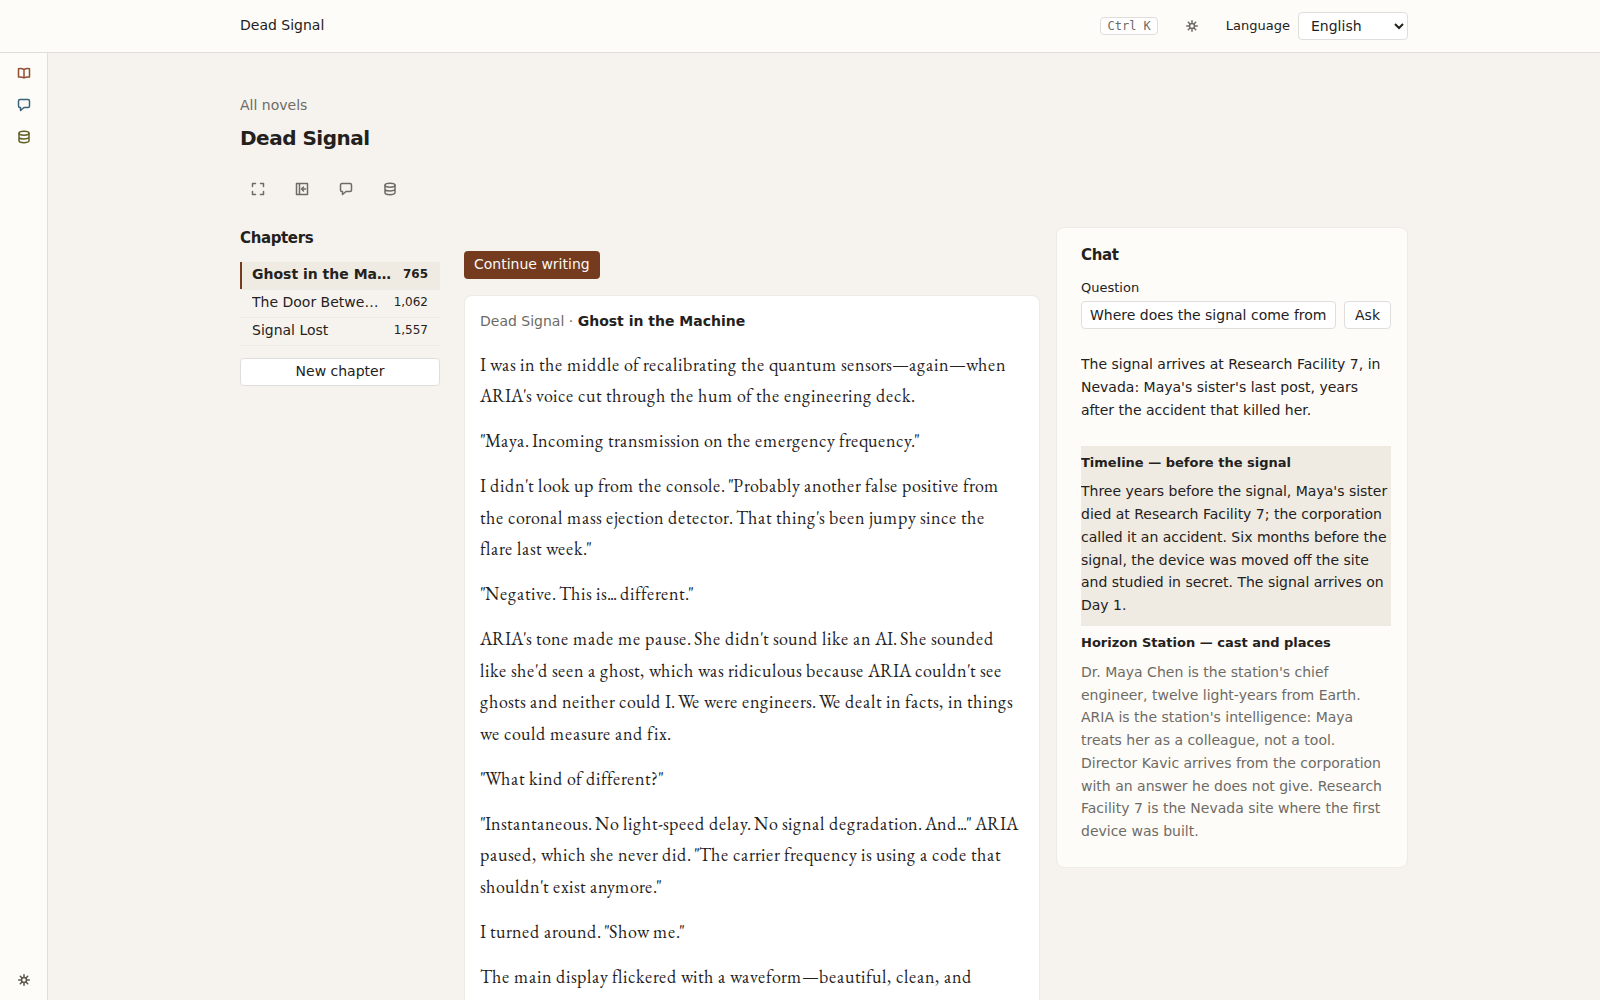
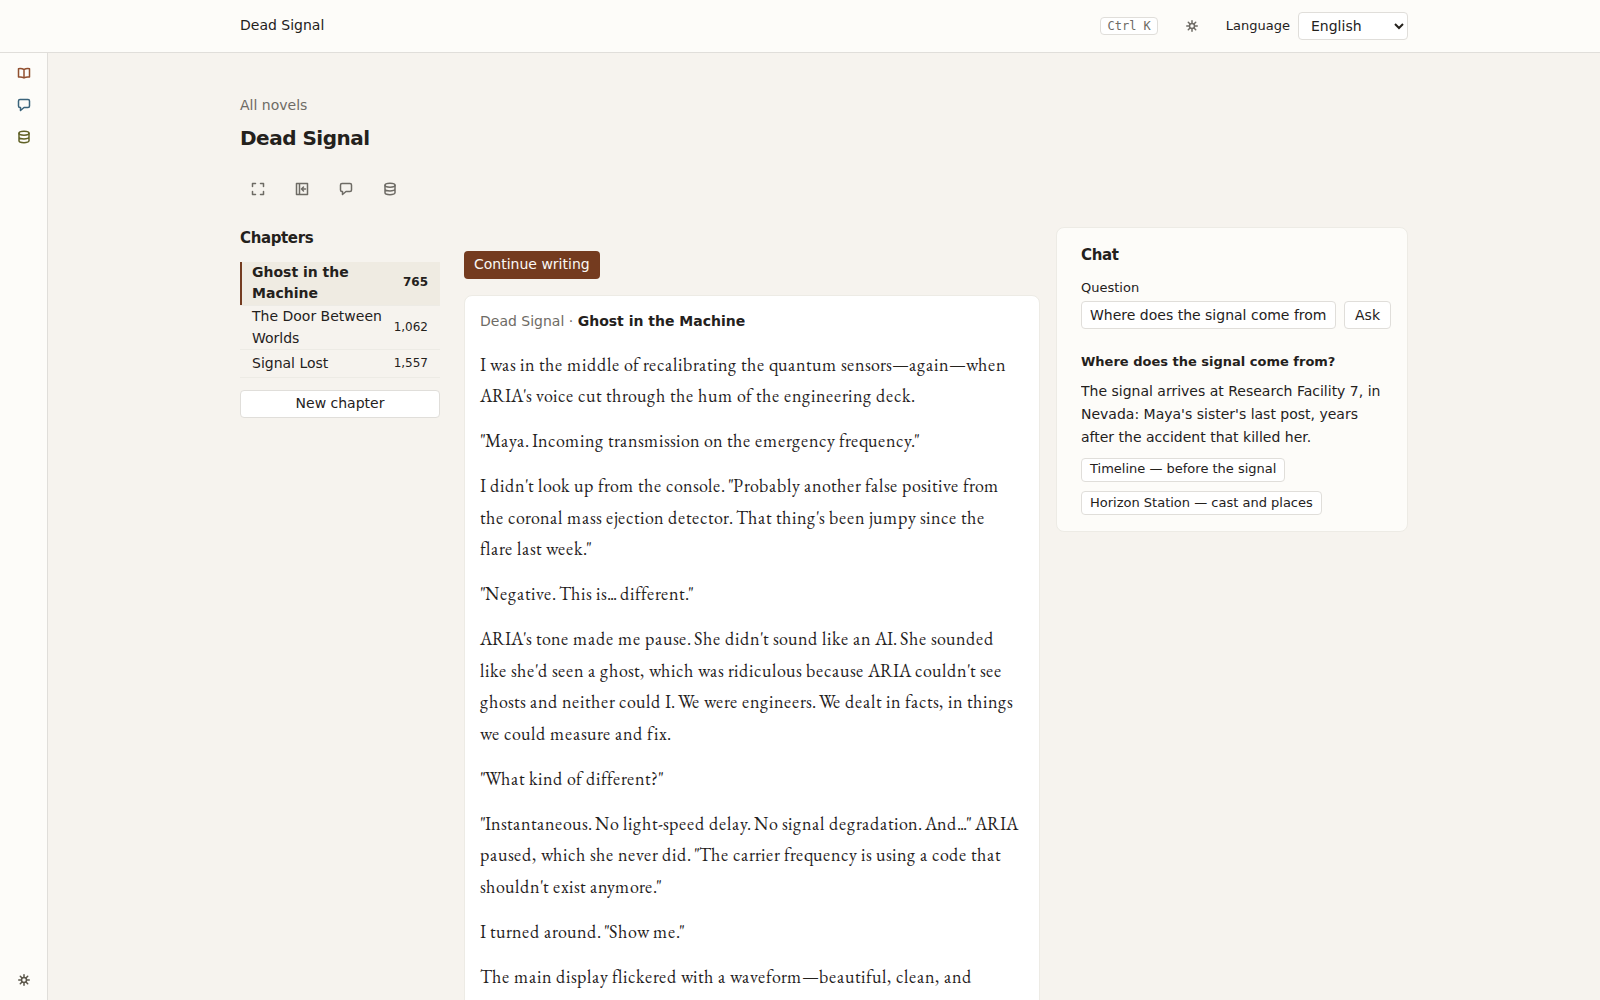
docs(screenshots): the gallery pins the dock and palette states
User-visible: the /design gallery now pins the landed dock and palette states as specimens — a conversation turn with its chips, the consistency card, the wrapped entity row and the palette dialog's button row — in light and dark.
Assisted-by: OpenCode (muse-spark-1.3-contributor)

Changed region(s): [[0.6562, 0.341, 0.875, 0.589], [0.6562, 0.62, 0.875, 0.837], [0.1562, 0.248, 0.2812, 0.403]]

diff --git a/app/capabilities/settings/web/DesignGallery.tsx b/app/capabilities/settings/web/DesignGallery.tsx
@@ -2,6 +2,7 @@ import { Button } from "@shell/ui/Button";
 import { AREA_ICON } from "@shell/lib/area";
 import { Cover, coverTone } from "@shell/ui/Cover";
 import { Field, Select } from "@shell/ui/field";
+import { GridList } from "@shell/ui/GridList";
 import { Notice } from "@shell/ui/Notice";
 import { Panel } from "@shell/ui/Panel";
 import { Row } from "@shell/ui/Row";
@@ -32,6 +33,14 @@ import { usePageTitle } from "@shell/lib/pageTitle";
  * live homes — planning as Canvas vs Dock (P1/P2), knowledge graph as
  * canvas vs dock lens (P12) — render side by side with the decision note;
  * everywhere else a single draft, never decoration.
+ *
+ * The "Specimens" section pins the landed dock and palette states on the
+ * real primitives — a conversation turn with its source chips, the
+ * consistency card, the wrapped entity row, the palette dialog's button
+ * row — inert specimens, never embeds: no handlers, no fetches, no modal
+ * shell. The subsection headings and source notes are documentation in
+ * the record's language (German, like the draft titles), the same in
+ * every locale; only the section heading itself comes from the catalog.
  */
 
 // The cover's three tones, pinned like Cover.test pins them: the tone is a
@@ -44,6 +53,15 @@ const INK_TITLE = "Der Sturm";
 // pin attributes — `Cover` takes no extra props — and names the tone the
 // title hashes to, so the pin and the tile cannot disagree.
 const LONG_TITLE = "A".repeat(120);
+// The wrapped row's pin: a name no dock column can grow for, beside a
+// short one — the row grows instead, wrapped, never truncated.
+const ENTITY_SPECIMENS = [
+  { id: "specimen-maya", name: "Maya Chen" },
+  {
+    id: "specimen-long",
+    name: "Die Hüterin des Leuchtturms am Ende der Welt, die jedes verschwundene Schiff in ihr Ledger einträgt",
+  },
+];
 const TONE_NAMES = ["pale", "sepia", "ink"] as const;
 
 const TYPE_STEPS = [
@@ -467,6 +485,126 @@ export function DesignGallery() {
               </Notice>
             </div>
           </Panel>
+        </div>
+      </section>
+
+      <section aria-labelledby="design-specimens-heading" className="mt-8">
+        <h2 id="design-specimens-heading" className="text-emph font-semibold">
+          {t("design.specimens")}
+        </h2>
+        <div className="mt-3">
+          <h3 className="text-body font-semibold">
+            Gesprächsrunde + Chips · Chat-Dock
+          </h3>
+          {/* The turn as ChatPanel renders it — question, answer, source
+              chips — with one chip open on its quoted passage. Inert: no
+              ask runs, no chip toggles; the expanded marks are the pin. */}
+          <ol className="mt-2 flex flex-col gap-6">
+            <li>
+              <p className="text-label font-semibold">Woher kommt das Signal?</p>
+              <p className="mt-2 whitespace-pre-wrap text-body leading-relaxed">
+                Das Signal kommt aus Forschungsstation 7 in Nevada: die letzte
+                Nachricht von Mayas Schwester, Jahre nach dem Unfall, der sie
+                das Leben kostete.
+              </p>
+              <ul className="mt-2 flex flex-wrap gap-2">
+                <li>
+                  <Button variant="secondary" size="sm" aria-expanded="false">
+                    Stationsnotizen
+                  </Button>
+                </li>
+                <li>
+                  <Button variant="secondary" size="sm" aria-expanded="true">
+                    Zeitstrahl
+                  </Button>
+                  <p className="mt-1 whitespace-pre-wrap text-body leading-relaxed text-muted">
+                    Drei Jahre vor dem Signal starb Mayas Schwester in
+                    Forschungsstation 7; der Konzern nannte es einen Unfall.
+                  </p>
+                </li>
+              </ul>
+            </li>
+          </ol>
+          <div className="mt-2">
+            <Notice tone="quiet">
+              ChatPanel: eine Runde aus Frage, Antwort und Quellen-Chips; ein
+              Chip steht offen auf seinem zitierten Beleg.
+            </Notice>
+          </div>
+        </div>
+        <div className="mt-3">
+          <h3 className="text-body font-semibold">
+            Konsistenzkarte · Wissen-Dock
+          </h3>
+          {/* The finding as ChecksPanel renders it: the Panel holds the
+              finding as its heading and the evidence beneath, both decisions
+              on shell Buttons. Inert: nothing acknowledges, nothing
+              dismisses. */}
+          <section aria-label={t("knowledge.findingTitle")} className="mt-2">
+            <Panel>
+              <h4 className="text-emph font-semibold">
+                Forschungsstation: 7 gegen 9
+              </h4>
+              <p className="mt-2 whitespace-pre-wrap text-body leading-relaxed text-muted">
+                Kapitel 1 nennt Forschungsstation 7, Kapitel 3 nennt
+                Forschungsstation 9: ein Name mit zwei Nummern.
+              </p>
+              <div className="mt-3 flex gap-2">
+                <Button>{t("proposal.accept")}</Button>
+                <Button>{t("proposal.discard")}</Button>
+              </div>
+            </Panel>
+          </section>
+          <div className="mt-2">
+            <Notice tone="quiet">
+              ChecksPanel: der Befund als Karte mit Titel, Beleg und beiden
+              Entscheidungen.
+            </Notice>
+          </div>
+        </div>
+        <div className="mt-3">
+          <h3 className="text-body font-semibold">
+            Umbrochene Entitätszeile · Wissen-Dock
+          </h3>
+          {/* The entity rows as EntitiesPanel renders them: the shell's
+              selection list with the wrap the dock owns, so the long name
+              grows the row instead of ellipsizing. Inert: no selection. */}
+          <div className="mt-2">
+            <GridList
+              label={t("knowledge.entitiesHeading")}
+              flush
+              wrap
+              items={ENTITY_SPECIMENS}
+              getId={(entity) => entity.id}
+              textOf={(entity) => entity.name}
+              selectedId={null}
+              onSelect={() => {}}
+              render={(entity) => entity.name}
+            />
+          </div>
+          <div className="mt-2">
+            <Notice tone="quiet">
+              EntitiesPanel: die Zeile bricht um, statt zu kürzen.
+            </Notice>
+          </div>
+        </div>
+        <div className="mt-3">
+          <h3 className="text-body font-semibold">Dialogzeile · Palette</h3>
+          {/* The consistency dialog's resting state: the trigger beside its
+              cancel. The modal shell cannot stand inline in a gallery, so
+              the row stands for it — the same two Buttons the dialog wears.
+              Inert: no check enqueues, nothing closes. */}
+          <div className="mt-2 flex flex-wrap gap-2">
+            <Button variant="primary">{t("knowledge.checkNovel")}</Button>
+            <Button variant="secondary">{t("knowledge.entityCancel")}</Button>
+          </div>
+          <div className="mt-2">
+            <Notice tone="quiet">
+              ConsistencyCheckDialog: die Paletten-Zeile
+              Ganzes-Buch-prüfen öffnet diesen Dialog; ruhend ist er
+              Auslöser neben Abbruch.
+            </Notice>
+          </div>
         </div>
       </section>
     </div>

diff --git a/app/capabilities/settings/web/DesignGallery.test.tsx b/app/capabilities/settings/web/DesignGallery.test.tsx
@@ -35,6 +35,31 @@ describe("DesignGallery", () => {
     expect(screen.getAllByText(/ENTWURF/).length).toBe(13);
   });
 
+  it("pins the dock and palette specimens", () => {
+    cleanup();
+    render(<DesignGallery />);
+    expect(screen.getByRole("heading", { name: "Specimens" })).toBeTruthy();
+    for (const name of [
+      /Gesprächsrunde/,
+      /Konsistenzkarte/,
+      /Entitätszeile/,
+      /Dialogzeile/,
+    ]) {
+      expect(screen.getByRole("heading", { name })).toBeTruthy();
+    }
+    // The turn's chips wear their documents' titles; one stands open on
+    // its quoted passage.
+    expect(screen.getByRole("button", { name: "Zeitstrahl" })).toBeTruthy();
+    // The finding is the dock's own surface: a named region, not a bare card.
+    expect(screen.getByRole("region", { name: "Consistency finding" })).toBeTruthy();
+    // The wrapped row is the shell's selection list with the wrap the dock
+    // owns, named for its heading.
+    expect(screen.getByRole("grid", { name: "Entities" })).toBeTruthy();
+    // The palette's consistency row opens the dialog whose resting state is
+    // this trigger beside its cancel — the modal itself cannot stand inline.
+    expect(screen.getByRole("button", { name: "Check the whole book" })).toBeTruthy();
+  });
+
   it("clamps a 120-character cover title", () => {
     const { container } = render(<DesignGallery />);
     const tile = container.querySelector('[data-cover-tone][data-long-title]');

diff --git a/scripts/screenshots.py b/scripts/screenshots.py
@@ -290,7 +290,7 @@ def _capture(
     vendor.set_answer(CHAT_ANSWER)
     dock.get_by_label("Question").fill(QUESTION)
     dock.get_by_role("button", name="Ask").click()
-    expect(dock.get_by_role("region", name="Sources")).to_contain_text(
+    expect(dock.get_by_role("region", name="Answer")).to_contain_text(
         "Horizon Station — cast and places"
     )
     # The answer is offered to the editor as a variant; the offer is not what
@@ -351,8 +351,9 @@ def _capture(
     shot(SHOTS[6])
 
     # 8. The design gallery in the default light: every primitive and token
-    #    plus the Target drafts on one page, outside the settings hub's nav.
-    #    Full page — the claim is the five sections together, not one viewport
+    #    plus the Target drafts and the dock-and-palette specimens on one
+    #    page, outside the settings hub's nav.
+    #    Full page — the claim is the six sections together, not one viewport
     #    of them.
     api.patch("/api/settings/theme", json={"theme": None})
     page.goto(f"{WEB}/design")
